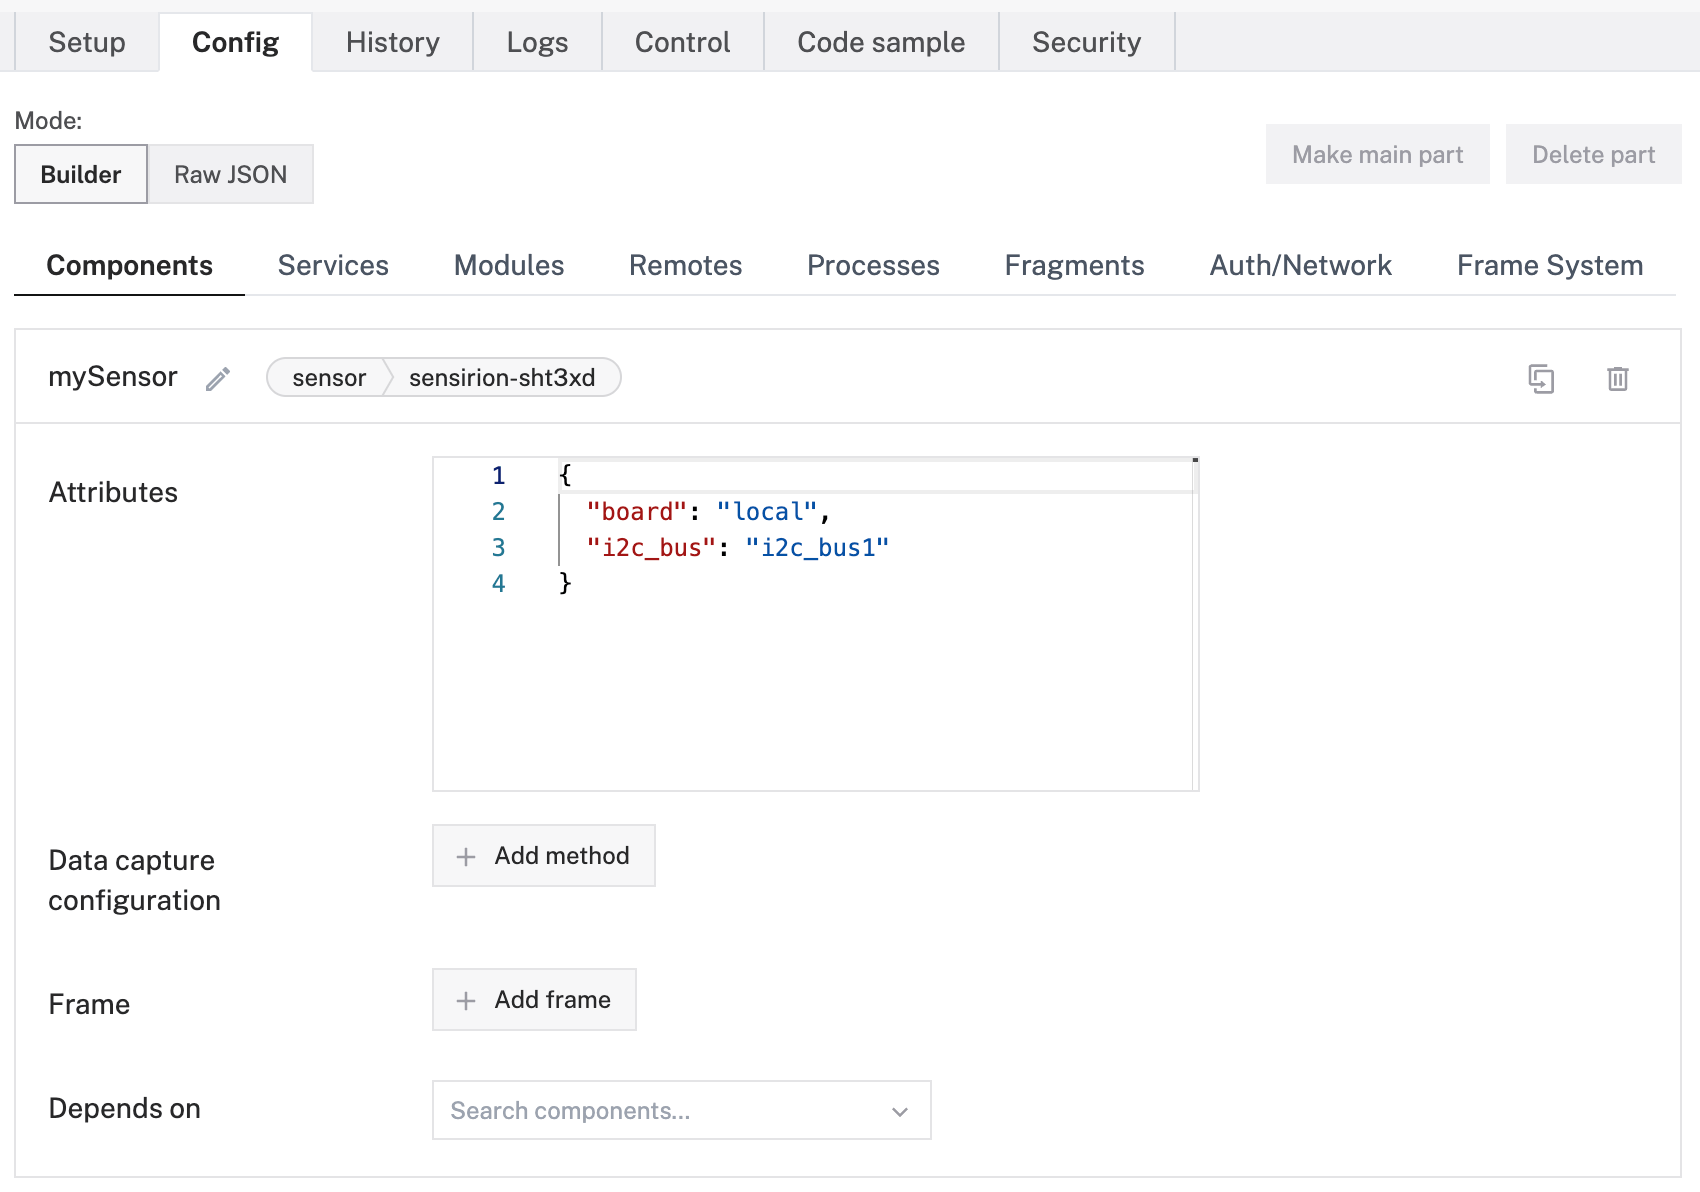
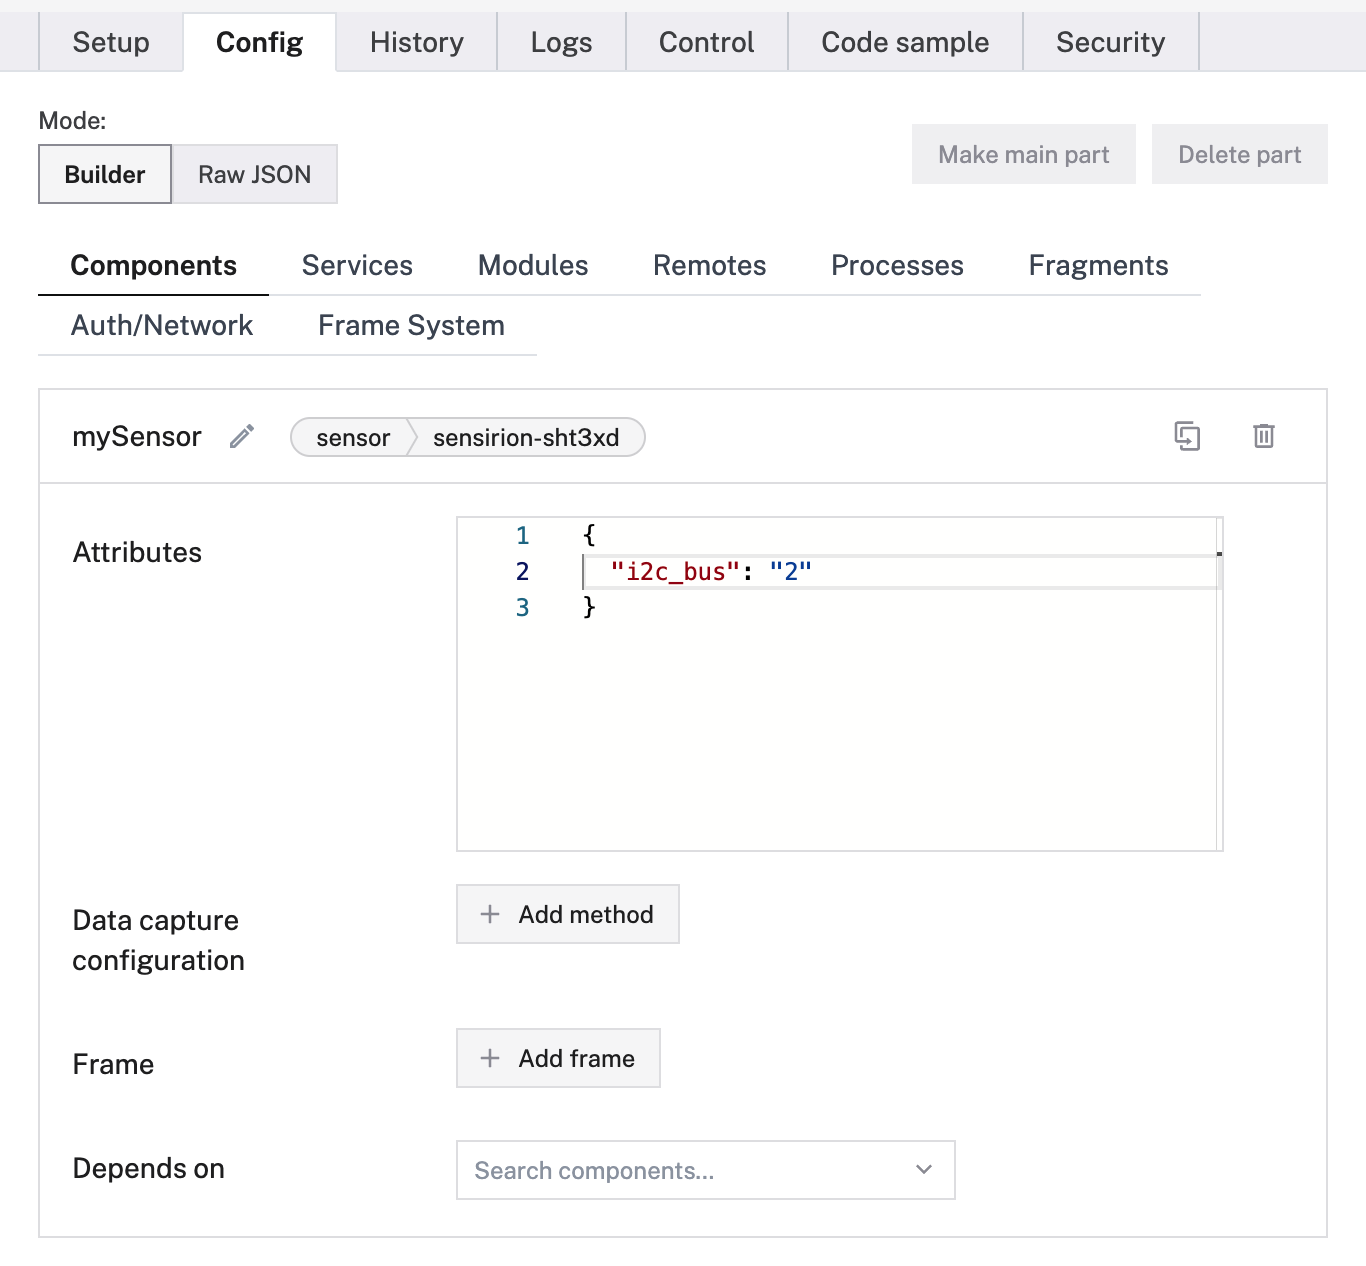
Update from Alan's changes

diff --git a/docs/components/sensor/sensirion-sht3xd.md b/docs/components/sensor/sensirion-sht3xd.md
@@ -31,8 +31,7 @@ Then remove and fill in the attributes as applicable to your sensor, according t
 ```json {class="line-numbers linkable-line-numbers"}
 {
   "board": "<your-board-name>",
-  "i2c_bus": "<your-i2c-bus-name-on-board>",
-  "i2c_address": "<your-i2c-address>"
+  "i2c_bus": "<your-i2c-bus-index-on-board>"
 }
 ```
 
@@ -42,7 +41,7 @@ Then remove and fill in the attributes as applicable to your sensor, according t
 ```json {class="line-numbers linkable-line-numbers"}
 {
   "board": "local",
-  "i2c_bus": "i2c_bus1"
+  "i2c_bus": "2"
 }
 ```
 
@@ -62,7 +61,7 @@ Then remove and fill in the attributes as applicable to your sensor, according t
       "namespace": "rdk",
       "attributes": {
         "board": "<your-board-name>",
-        "i2c_bus": "<your-i2c-bus-name-on-board>",
+        "i2c_bus": "<your-i2c-bus-index-on-board>",
         "i2c_address": "<your-i2c-address>"
       },
       "depends_on": []
@@ -79,8 +78,7 @@ The following attributes are available for `sensirion-sht3xd` sensors:
 <!-- prettier-ignore -->
 | Attribute | Type | Inclusion | Description |
 | --------- | ---- | --------- | ----------- |
-| `board` | string | **Required** | The `name` of the [board](/components/board/) the sensor is wired to. |
-| `i2c_bus` | string | **Required** | The `name` of the [I2C bus](/components/board/#i2cs) on the board that the sensor is wired to. |
+| `i2c_bus` | string | **Required** | The number of the [I2C bus](/components/board/#i2cs) on the board that the sensor is wired to. |
 | `i2c_address` | string | Optional | The [I2C device address](https://learn.adafruit.com/i2c-addresses/overview) of the sensor. <br> Default: `0x44` |
 
 {{< readfile "/static/include/components/test-control/sensor-control.md" >}}
